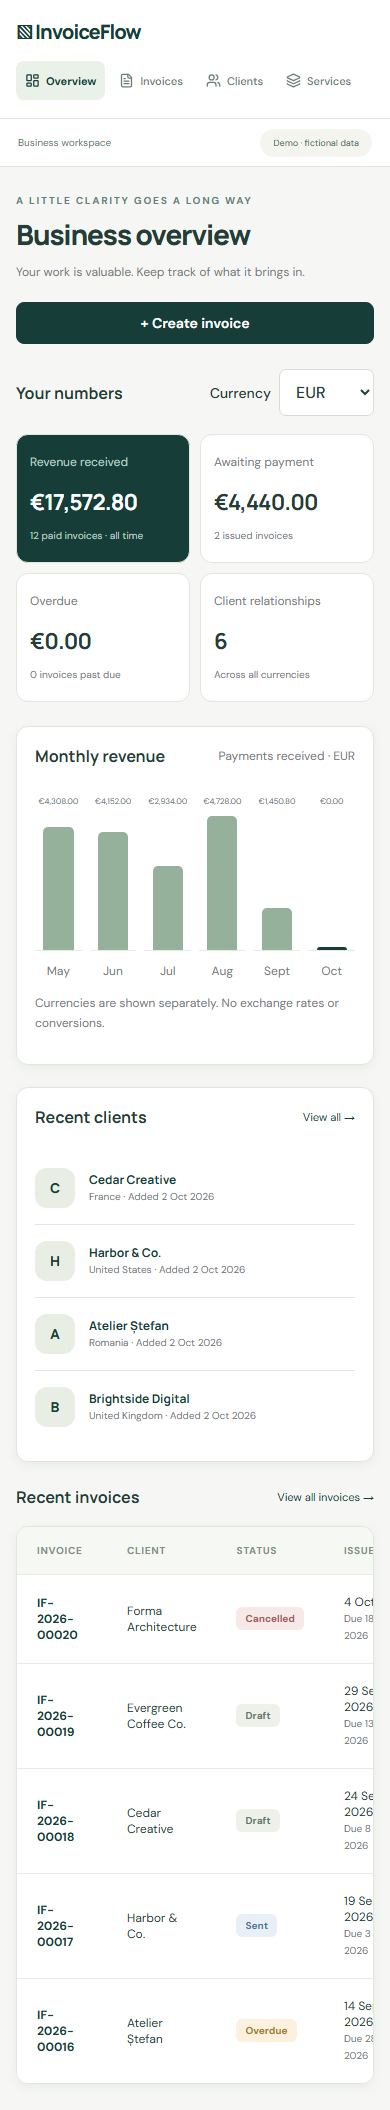
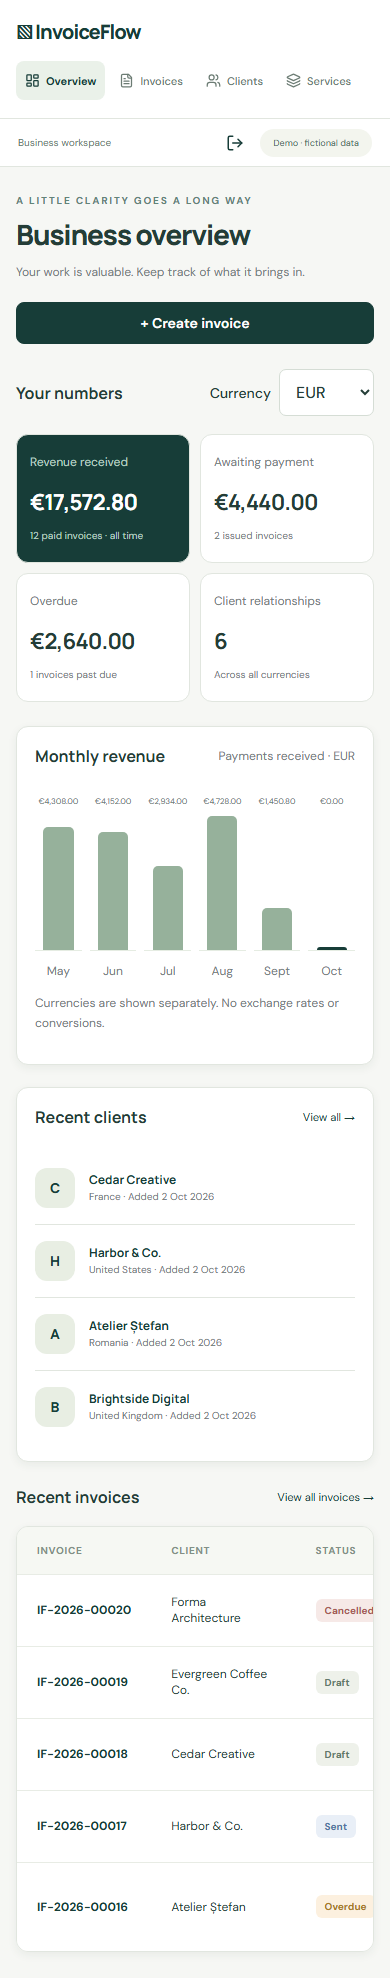
Document verified public demo and refresh real product screenshots

diff --git a/docs/PUBLIC_DEPLOYMENT.md b/docs/PUBLIC_DEPLOYMENT.md
@@ -1,5 +1,30 @@
 # Public demo deployment
 
-Public URLs and cloud health will be recorded here after deployment verification. The demo account is `demo@invoiceflow.app` with password `InvoiceFlowDemo!2026`, also available through the Explore demo button.
+Verified 2 October 2026.
 
-The shared demo contains fictional data only. Private accounts are isolated. No API/database credentials are stored in this document.
+- Frontend: https://invoiceflow-dina19.vercel.app
+- API: https://invoiceflow-api-yna9.onrender.com
+- Health (same-origin proxy): https://invoiceflow-dina19.vercel.app/api/health
+- Source: https://github.com/alexdina712-dev/invoiceflow
+- Organized Drive backup: https://drive.google.com/drive/folders/1mqLnxqaZlVpyqhSFLW07vGKJpXrOgwm1
+
+Click **Explore the demo workspace**, or sign in with `demo@invoiceflow.app` / `InvoiceFlowDemo!2026`. Sample data includes six fictional clients, seven service presets, 20 invoices, multiple statuses, and all four supported currencies. Do not add sensitive data to the shared demo.
+
+## Infrastructure
+
+Vercel Hobby project `invoiceflow`, Render free service `invoiceflow-api` in Frankfurt, Neon project `InvoiceFlow Portfolio Demo` with PostgreSQL 16. The exact Neon credential was explicitly approved for private transfer to Render as DATABASE_URL. It is absent from source, frontend, Drive, and Desktop backups.
+
+The frontend was deployed by Vercel CLI from a clean Git archive, with `/api` rewritten to the Render service. The alternate production domain redirects to the canonical domain. Render is configured to deploy after checks; verify commit/status in the dashboard and trigger a deployment explicitly if the public-repository check trigger does not fire. Vercel automatic Git deployment is not connected; use the documented CLI workflow for updates.
+
+Initial verified frontend source: `fd64465`; initial verified API source: `36df8cd`. The later source updates add launchers, routing, documentation, and refreshed screenshots without changing the running domain/API implementation. Backups identify their exact source commit in the manifest.
+
+## Verification
+
+- Public HTML and proxied database health: HTTP 200 without deployment-login protection.
+- Six browser workflows on desktop and mobile: all 12 passed against the public deployment.
+- Demo login and logout: successful; cookie HttpOnly/Secure/SameSite=Lax.
+- API responses: no-store; untrusted mutation Origin: 403.
+- Real PDF downloads, invoice calculations, client/service CRUD, invoice status changes/duplication, account deletion: verified in public browser workflows.
+- GitHub Actions verified the production build, 37 unit/API tests, and 12 browser tests against fresh PostgreSQL 16.
+
+Free Render services sleep after inactivity, so the first request can take about a minute. All portfolio Render services share the account's free resource allowance. No paid services or artificial keep-alive jobs were enabled. Provider limits can suspend availability; do not promise production uptime from this portfolio demo.

diff --git a/docs/VERIFICATION.md b/docs/VERIFICATION.md
@@ -8,7 +8,15 @@ Date: 2 October 2026. Tests use fictional data and disposable accounts.
 - Generated PDF: real PDF header, extracted invoice number, Romanian Unicode seller name, and expected monetary total verified. Rendered demo invoice visually reviewed with Poppler.
 - Responsive screenshots: desktop 1440px and mobile 390px reviewed. Tables deliberately scroll within their container; page-width overflow is checked in browser tests.
 - Local PostgreSQL migrations and idempotent fictional demo seed: applied successfully.
-- GitHub Actions on PostgreSQL 16: passed, run 36992518028. Public deployment and Desktop backup verification: pending final delivery checks.
+- GitHub Actions on PostgreSQL 16: passed, run 36992518028. Public Vercel/Render/Neon deployment: health and all 12 public desktop/mobile workflows passed. Desktop packaging checks recorded below.
 - Docker files supplied; container runtime execution has not yet been verified on this computer.
 
 No test uses real customer information. Public tests register temporary accounts and remove them after each workflow. Keep generated browser reports and private runtime files outside the repository.
+
+## Public verification
+
+Canonical demo: https://invoiceflow-dina19.vercel.app. Cookie security flags and no-store responses verified; wrong-Origin mutation returned 403. Public tests used temporary private accounts and deleted them. Eight screenshots and the sample PDF were recaptured from the live fictional demo.
+
+## Runtime limitations
+
+Docker is not installed on this computer, so Docker execution was not tested. Local embedded PostgreSQL uses version 18.4; CI and Neon use PostgreSQL 16 and the migration passes on both. Free cloud resources may sleep or hit shared quotas. No email or payment integration is claimed.

diff --git a/README.md b/README.md
@@ -4,6 +4,8 @@ A complete freelancer business workspace for clients, reusable services, invoice
 
 ## Explore
 
+[Live demo](https://invoiceflow-dina19.vercel.app) · [GitHub source](https://github.com/alexdina712-dev/invoiceflow)
+
 Use **Explore the demo workspace** on the sign-in screen, or sign in with `demo@invoiceflow.app` / `InvoiceFlowDemo!2026`. All sample companies, contact information, invoices, and payment instructions are fictional. The shared demo is editable; create a private account for your own data.
 
 Deployment details and verified URLs are maintained in [PUBLIC_DEPLOYMENT.md](docs/PUBLIC_DEPLOYMENT.md).
